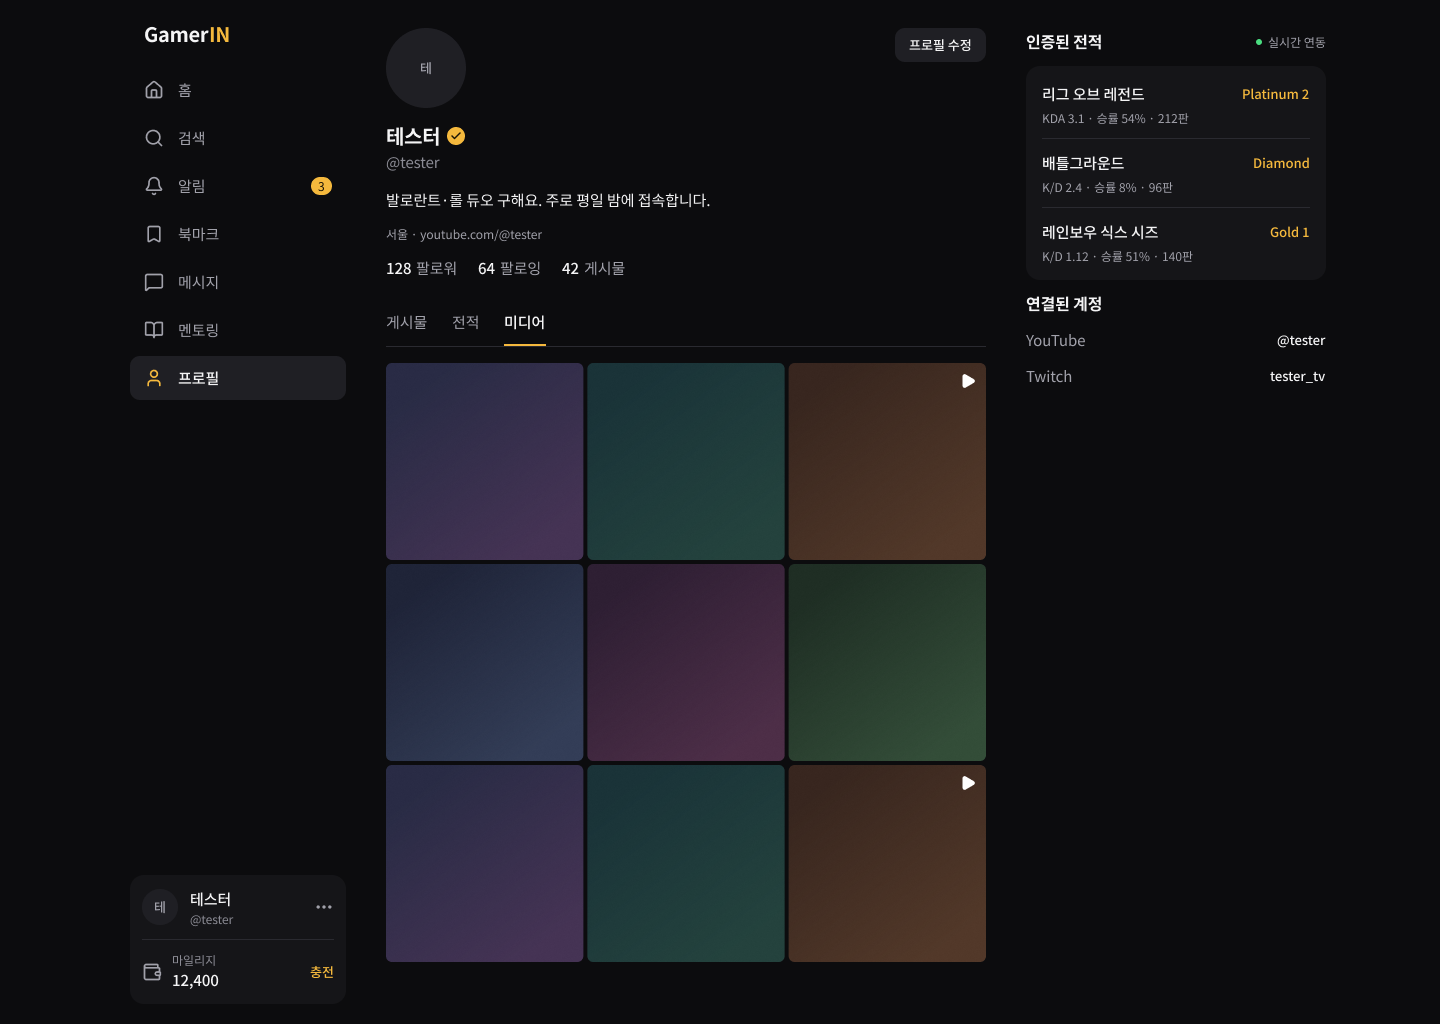
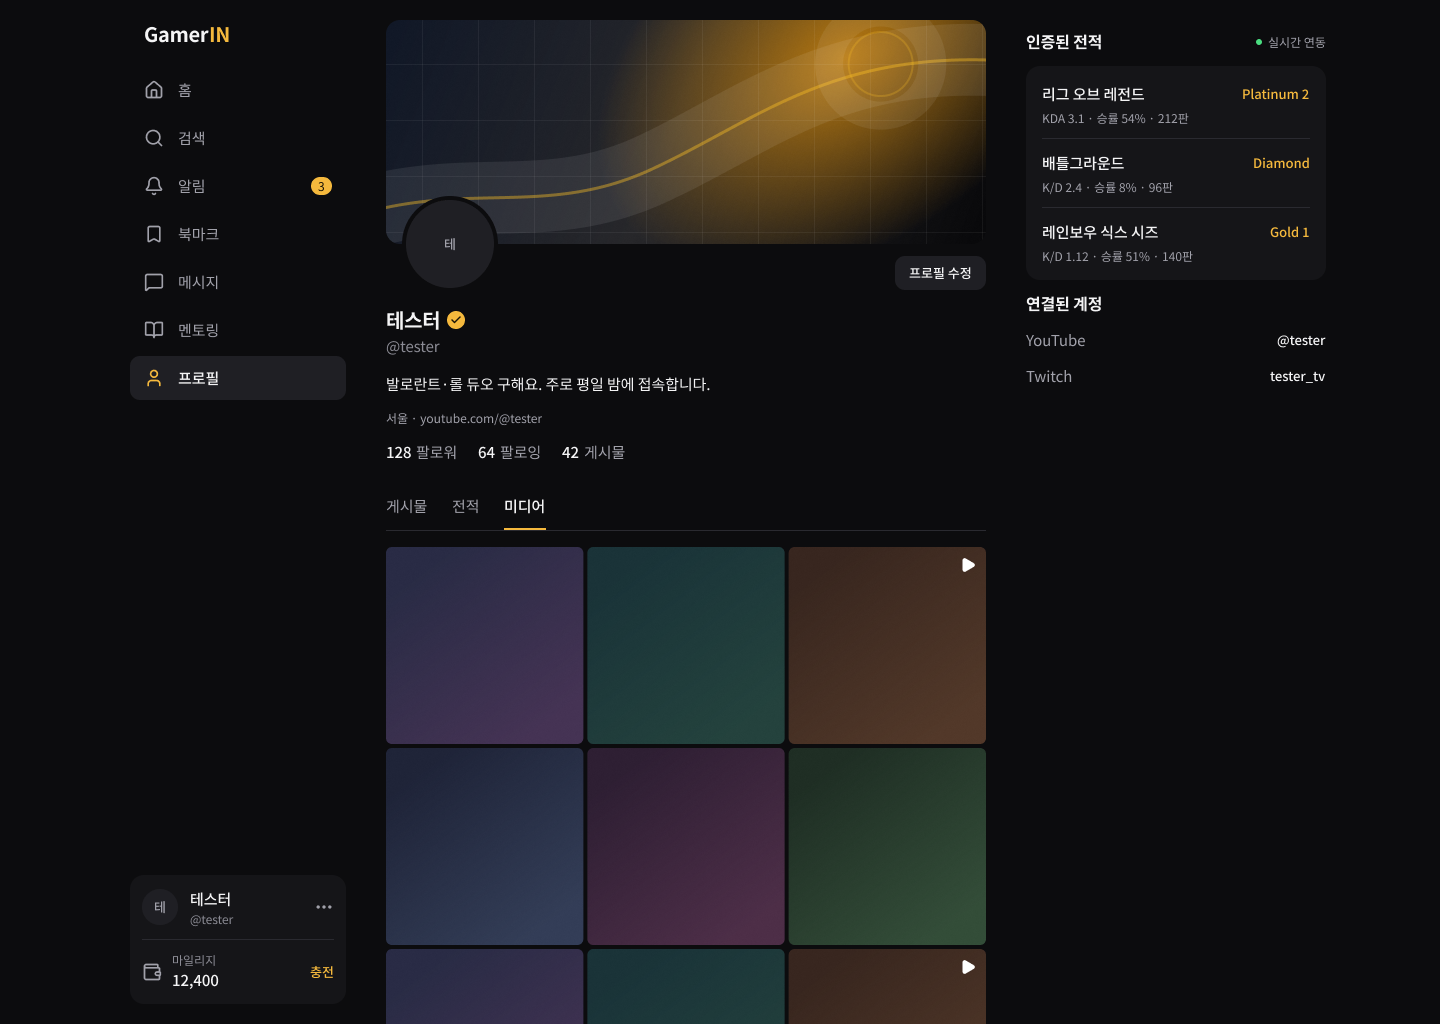
docs: 프로필 커버와 라이트 모드 시안 기록
- README: F12(프로필 커버), F13(라이트 모드, border/card) 추가, 토큰·Figma 구성·작업 기록·남은 결정 갱신
- mockups.md: 커버 설명, 라이트 모드 데스크톱 21장·모바일 8장 표
- 커버가 들어간 프로필 이미지 4장 교체, 라이트 이미지 29장 추가

Changed region(s): [[0.25, 0.0, 0.6875, 1.0], [0.625, 0.25, 0.6875, 0.2812]]

diff --git a/docs/design-system-v2/mockups.md b/docs/design-system-v2/mockups.md
@@ -190,7 +190,9 @@ D가 양산형으로 보인 원인을 이렇게 판단했다(**추정**). 모든
 
 ## 확정안 — L2 + Amber
 
-사용자 확정: 다크 기본, 브랜드 Amber `#F5B93D`, L2 레이아웃. 결정 목록은 [README.md](README.md) 2-1절(F1~F11)에 있다. 화면은 현행 Figma 파일의 `Screens`·`Mobile` 페이지에 있다. Violet 버전도 같은 위치에 비교용으로 남겼다.
+사용자 확정: 다크 기본, 브랜드 Amber `#F5B93D`, L2 레이아웃. 결정 목록은 [README.md](README.md) 2-1절(F1~F13)에 있다. 화면은 현행 Figma 파일의 `Screens`·`Mobile`·`Light`·`Screens · FHD` 페이지에 있다. Violet 버전도 `Screens`·`Mobile`에 비교용으로 남겼다.
+
+프로필에는 커버 사진을 넣었다(F12). 커버는 현재 코드에 있는 기능인데 첫 확정안 이미지에서 빠져 있었다. 아래 프로필 이미지는 커버를 넣은 버전으로 교체했다. 사진이 없을 때의 기본 이미지 `public/images/default-profile-cover.svg`를 Figma `Profile Cover` 컴포넌트로 옮겼다. SVG의 격자 패턴은 Figma로 가져올 때 빠져서, 같은 56px 간격의 선으로 다시 그렸다.
 
 화면 문구와 항목은 현재 코드를 근거로 했다.
 
@@ -248,6 +250,32 @@ D가 양산형으로 보인 원인을 이렇게 판단했다(**추정**). 모든
 | ![](mockups/final-amber/mobile/home.png) | ![](mockups/final-amber/mobile/search-panel.png) | ![](mockups/final-amber/mobile/notifications.png) | ![](mockups/final-amber/mobile/bookmarks.png) |
 | **프로필** | **내 지갑** | **멘토링** | **멤버십** |
 | ![](mockups/final-amber/mobile/profile.png) | ![](mockups/final-amber/mobile/wallet.png) | ![](mockups/final-amber/mobile/mentoring.png) | ![](mockups/final-amber/mobile/membership.png) |
+
+### 라이트 모드
+
+다크가 기본이지만 라이트도 제공한다(F13). 같은 화면을 `Color` 변수 모드만 Light로 바꿔 만들었다. 다크에서 없앤 카드 테두리 때문에 흰 카드가 바탕에 묻혀서, 라이트에서만 보이는 `border/card` 1px 테두리를 추가했다. 모바일 검색 패널의 키보드 자리는 라이트에서 밝은 회색으로 바꿨다.
+
+| 홈 | 알림 패널 | 검색 패널 |
+|---|---|---|
+| ![](mockups/final-amber/light/desktop/home.png) | ![](mockups/final-amber/light/desktop/notification-panel.png) | ![](mockups/final-amber/light/desktop/search-panel.png) |
+| **검색 결과** | **북마크** | **프로필 · 게시물** |
+| ![](mockups/final-amber/light/desktop/search-results.png) | ![](mockups/final-amber/light/desktop/bookmarks.png) | ![](mockups/final-amber/light/desktop/profile.png) |
+| **프로필 · 전적** | **프로필 · 미디어** | **내 지갑** |
+| ![](mockups/final-amber/light/desktop/profile-stats-tab.png) | ![](mockups/final-amber/light/desktop/profile-media-tab.png) | ![](mockups/final-amber/light/desktop/wallet.png) |
+| **멘토링 · 멘토 찾기** | **멘토링 · 내 멘토링** | **멘토링 · 내 프로그램** |
+| ![](mockups/final-amber/light/desktop/mentoring.png) | ![](mockups/final-amber/light/desktop/mentoring-mine-tab.png) | ![](mockups/final-amber/light/desktop/mentoring-programs-tab.png) |
+| **멘토링 · 멘토 되기** | **프로그램 상세 모달** | **멤버십 · 미가입** |
+| ![](mockups/final-amber/light/desktop/mentoring-become-tab.png) | ![](mockups/final-amber/light/desktop/mentoring-program-detail.png) | ![](mockups/final-amber/light/desktop/membership-join.png) |
+| **멤버십 · 이용 중** | **홈 로딩** | **홈 오류** |
+| ![](mockups/final-amber/light/desktop/membership-active.png) | ![](mockups/final-amber/light/desktop/state-home-loading.png) | ![](mockups/final-amber/light/desktop/state-home-error.png) |
+| **북마크 빈 상태** | **검색 결과 없음** | **세션 확인 실패** |
+| ![](mockups/final-amber/light/desktop/state-bookmarks-empty.png) | ![](mockups/final-amber/light/desktop/state-search-no-results.png) | ![](mockups/final-amber/light/desktop/state-session-unavailable.png) |
+
+| 홈 | 검색 패널 | 알림 | 북마크 |
+|---|---|---|---|
+| ![](mockups/final-amber/light/mobile/home.png) | ![](mockups/final-amber/light/mobile/search-panel.png) | ![](mockups/final-amber/light/mobile/notifications.png) | ![](mockups/final-amber/light/mobile/bookmarks.png) |
+| **프로필** | **내 지갑** | **멘토링** | **멤버십** |
+| ![](mockups/final-amber/light/mobile/profile.png) | ![](mockups/final-amber/light/mobile/wallet.png) | ![](mockups/final-amber/light/mobile/mentoring.png) | ![](mockups/final-amber/light/mobile/membership.png) |
 
 ## 재현 방법
 
